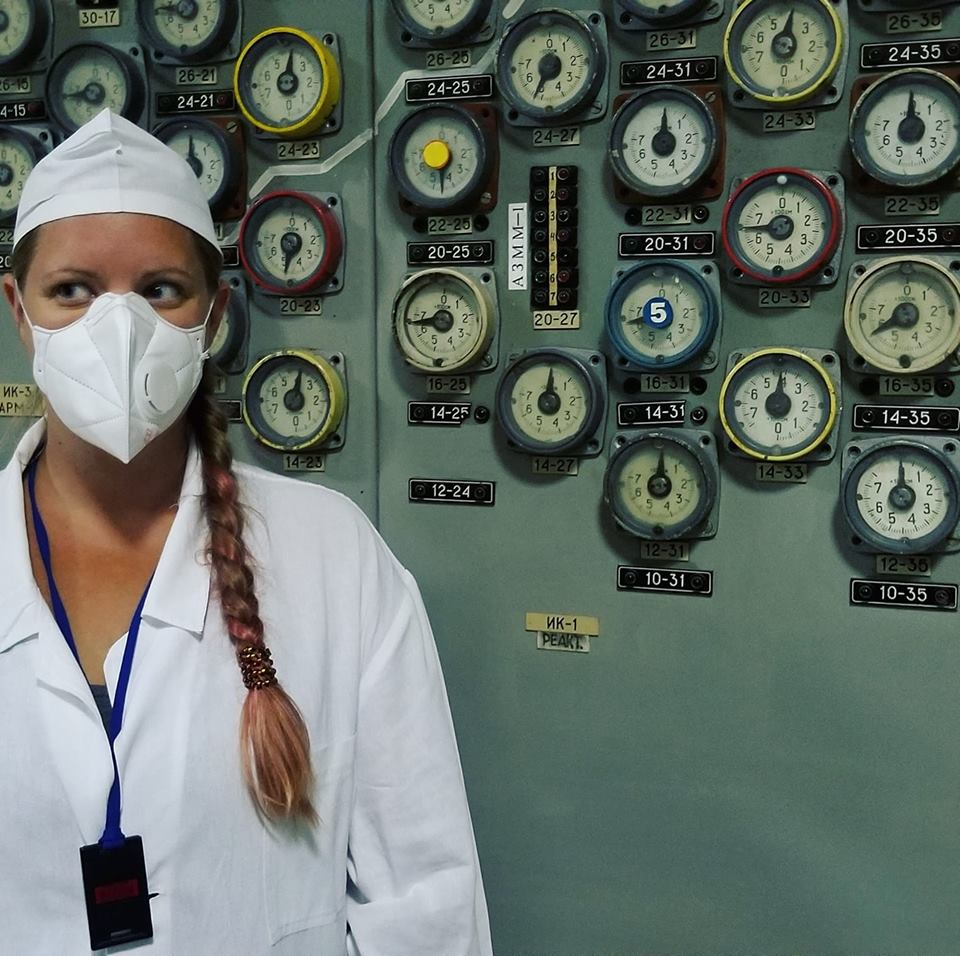
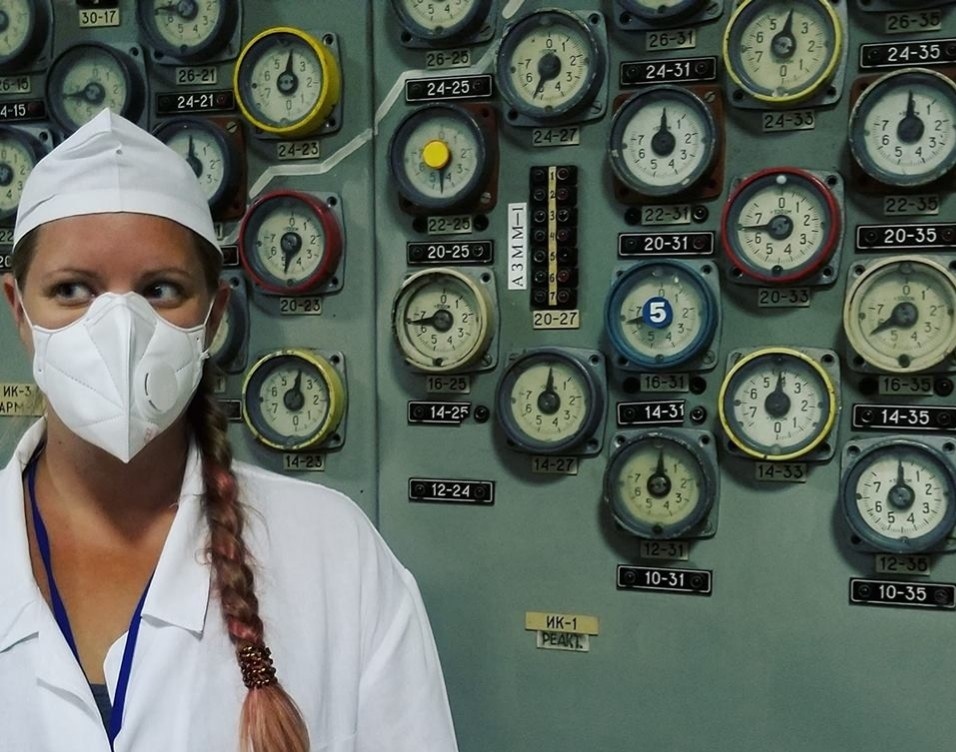
updated design

diff --git a/styles.css b/styles.css
@@ -1,9 +1,12 @@
 h1 {
   font-weight: bold;
-  color: #063336;
+  color: #063336;;
 }
 
-h2 {color: #EB4E57;}
+h2 {
+  color: #EB4E57;
+  font-family:cursive;
+}
 
 body{
   background-color: #548E8B;
@@ -16,7 +19,7 @@ body{
 }
 
 img{
-  height: 300px;
+  height: 230px;
   width: 320px;
   float: right;
   
@@ -25,7 +28,8 @@ img{
   text-align:center;
   border:#063336 solid 10px;
   border-radius: 25px;
-  background-color: #063336
+  background-color: #063336;
+  margin-bottom: 30px;
 }
 .info{
   font-size:14px;

diff --git a/index.html b/index.html
@@ -21,6 +21,7 @@
       <img src="img/chernobly.jpg" class="img-rounded" class="center-block" alt="Image of met at Chernobyl">
       </div>
     </div>
+    <div class="row"></div>
     <div class="well">
     <h2>Background</h2>
     <ul>
